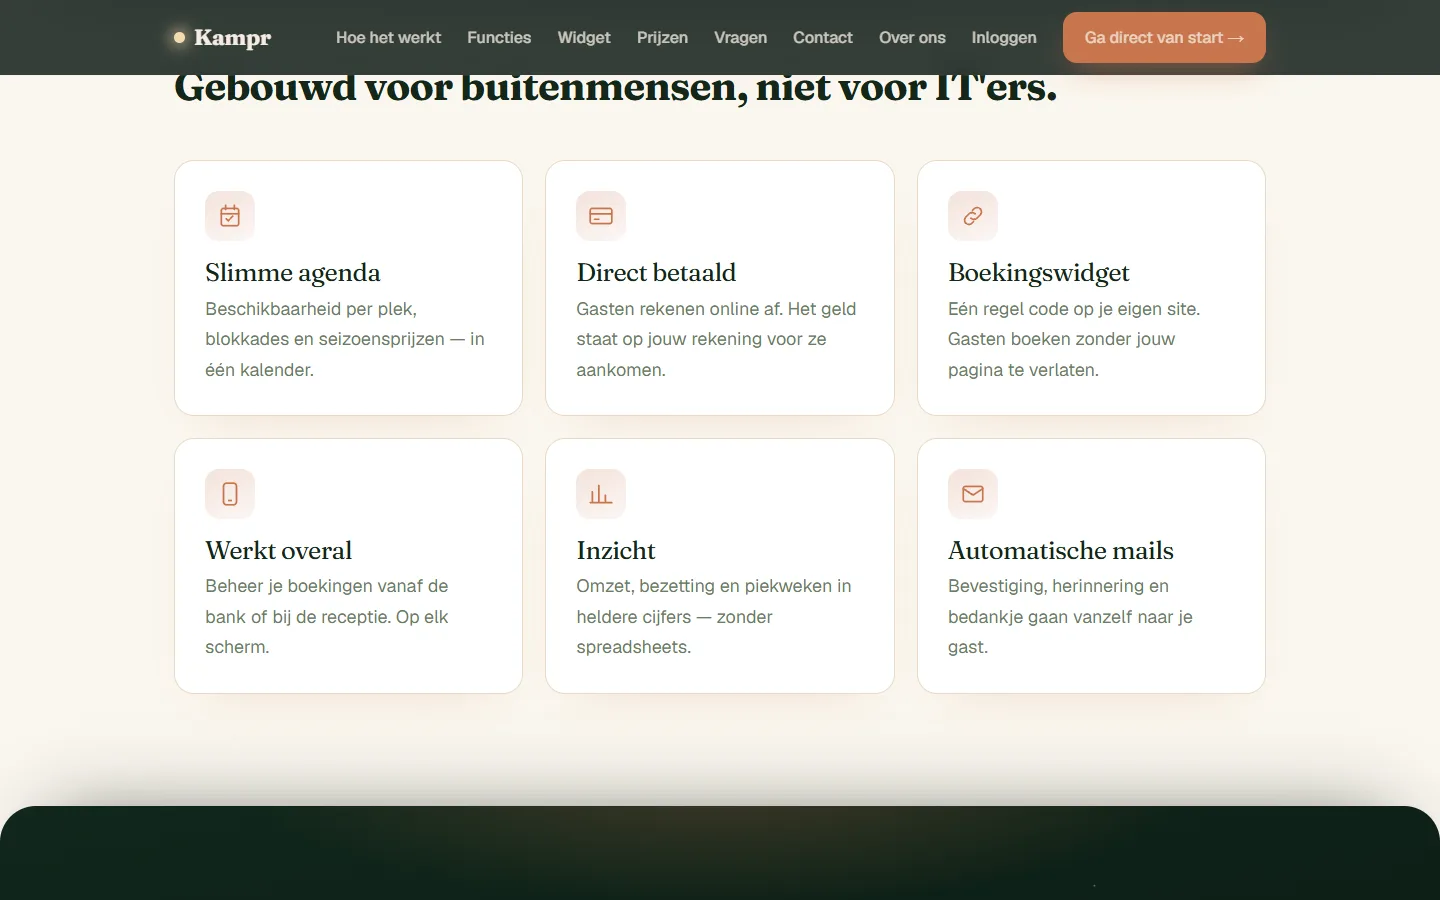
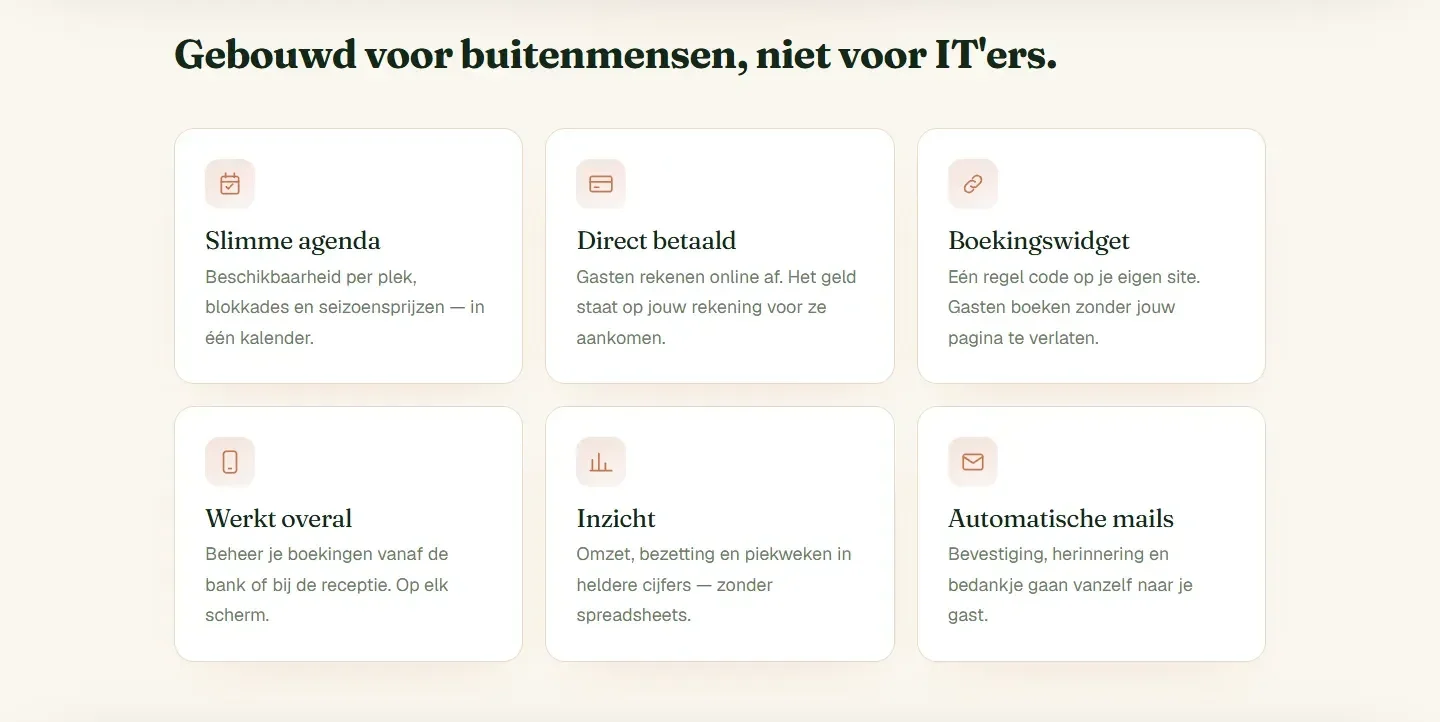
fix(portfolio): ensure Kampr widget and pricing screenshots fit fully without cropping
Re-capture the widget, pricing, features, steps and dashboard visuals as
full-section screenshots (they were 1440x900 viewport slices cut off at the
edges; the dashboard image was a duplicate of the hero). Gallery now uses
natural-ratio columns, correct width/height attributes, no hover zoom crop,
and a lightbox max-height that keeps the caption clear.

diff --git a/portfolio/kampr.html b/portfolio/kampr.html
@@ -258,7 +258,7 @@
     #lightbox.lb-visible { opacity: 1; }
 
     #lightbox-img {
-      max-width: 88vw; max-height: 84vh; object-fit: contain; display: block;
+      max-width: 88vw; max-height: 76vh; width: auto; height: auto; object-fit: contain; display: block;
       border-radius: 2px; box-shadow: 0 40px 100px rgba(0,0,0,0.8);
       transform: scale(0.96); transition: transform 0.3s cubic-bezier(0.22,1,0.36,1);
     }
@@ -356,6 +356,7 @@
     .story-text h3::before { content: attr(data-n); display: block; font-size: 0.62rem; font-family: var(--font-body); font-weight: 700; letter-spacing: 0.22em; color: var(--orange); margin-bottom: 12px; }
     .story-fig { position: relative; }
     .story-fig img { width: 100%; height: auto; display: block; border-radius: 3px; border: 1px solid var(--border); box-shadow: 0 1px 0 rgba(255,255,255,0.04) inset, 0 28px 60px -24px rgba(255,140,0,0.16), 0 14px 36px rgba(0,0,0,0.6); }
+    .story-fig.tall { max-width: 460px; width: 100%; margin-inline: auto; }
     .story-fig figcaption { margin-top: 12px; font-size: 0.72rem; line-height: 1.5; color: var(--text-muted); letter-spacing: 0.02em; }
 
     .stats { margin-top: 48px; display: grid; grid-template-columns: repeat(4, minmax(0, 1fr)); gap: 1px; background: var(--border); border: 1px solid var(--border); border-radius: 4px; overflow: hidden; list-style: none; }
@@ -366,17 +367,16 @@
     /* GALLERY */
     .gal-head { display: flex; justify-content: space-between; align-items: flex-end; gap: 24px; flex-wrap: wrap; margin-bottom: 36px; }
     .gal-head p { font-size: 0.9rem; color: var(--text-secondary); font-weight: 300; max-width: 46ch; line-height: 1.7; }
-    .gal { display: grid; grid-template-columns: repeat(2, minmax(0, 1fr)); gap: 8px; }
-    .gal-item { position: relative; display: block; width: 100%; padding: 0; border: 0; background: #111; cursor: pointer; overflow: hidden; font: inherit; color: inherit; border-radius: 3px; }
-    .gal-item:first-child { grid-column: 1 / -1; }
-    .gal-item img { width: 100%; height: auto; display: block; transition: transform 0.7s cubic-bezier(0.25,0.46,0.45,0.94), filter 0.4s ease; }
+    .gal { columns: 2; column-gap: 8px; }
+    .gal-item { position: relative; display: block; width: 100%; margin: 0 0 8px; padding: 0; border: 1px solid var(--border); background: #111; cursor: pointer; overflow: hidden; font: inherit; color: inherit; border-radius: 3px; break-inside: avoid; }
+    .gal-item img { width: 100%; height: auto; display: block; transition: filter 0.4s ease; }
     .gal-item::after { content: ''; position: absolute; left: 0; right: 0; bottom: 0; height: 3px; background: var(--orange); transform: scaleX(0); transform-origin: left center; transition: transform 0.4s cubic-bezier(0.22,1,0.36,1); }
     .gal-cap { position: absolute; left: 0; right: 0; bottom: 0; padding: 40px 16px 16px; text-align: left; font-family: var(--font-display); font-size: 1.15rem; letter-spacing: 0.04em; color: var(--text-primary); background: linear-gradient(to top, rgba(0,0,0,0.8) 0%, transparent 100%); opacity: 0; transform: translateY(6px); transition: opacity 0.3s ease, transform 0.3s cubic-bezier(0.22,1,0.36,1); }
-    .gal-item:hover img { transform: scale(1.04); filter: brightness(0.82); }
+    .gal-item:hover img { filter: brightness(0.82); }
     .gal-item:hover::after, .gal-item:focus-visible::after { transform: scaleX(1); }
     .gal-item:hover .gal-cap, .gal-item:focus-visible .gal-cap { opacity: 1; transform: translateY(0); }
     .gal-item:focus-visible { outline: 2px solid var(--orange); outline-offset: -2px; }
-    .gal-item:active img { transform: scale(1.02); }
+    .gal-item:active img { filter: brightness(0.7); }
 
     @media (max-width: 1100px) {
       .facts dl { grid-template-columns: 1fr 1fr 1fr; }
@@ -403,7 +403,7 @@
     @media (max-width: 480px) {
       .facts dl { grid-template-columns: 1fr; }
       .pains { grid-template-columns: 1fr; }
-      .gal { grid-template-columns: 1fr; gap: 6px; }
+      .gal { columns: 1; }
       .stats li { padding: 22px 16px; }
       .hero-actions .btn-orange, .hero-actions .btn-ghost { text-align: center; flex: 1 1 100%; }
     }
@@ -560,8 +560,8 @@
             <p>Het hart van het platform is de widget. De eigenaar plaatst één regel code in WordPress, Elementor, Wix, Squarespace of eigen HTML. Gasten zien live beschikbaarheid en de prijs per nacht en boeken zonder de website van de camping te verlaten.</p>
             <p>De widget bestaat in drie niveaus, Basis (compact), Plus (breed) en Pro (zoek &amp; boek), zodat een kleine minicamping en een groot park allebei een passende ervaring krijgen.</p>
           </div>
-          <figure class="story-fig">
-            <img src="/fotos/kampr/kampr-boekingswidget-basis-800.webp" srcset="/fotos/kampr/kampr-boekingswidget-basis-800.webp 800w, /fotos/kampr/kampr-boekingswidget-basis.webp 1440w" sizes="(max-width:900px) 100vw, 640px" width="800" height="500" alt="De compacte Kampr-boekingswidget met accommodatie, aankomst- en vertrekdatum en totaalprijs" loading="lazy" decoding="async">
+          <figure class="story-fig tall">
+            <img src="/fotos/kampr/kampr-boekingswidget-basis-800.webp" srcset="/fotos/kampr/kampr-boekingswidget-basis-800.webp 800w, /fotos/kampr/kampr-boekingswidget-basis.webp 1092w" sizes="(max-width:900px) 100vw, 460px" width="800" height="1221" alt="De compacte Kampr-boekingswidget met accommodatie, aankomst- en vertrekdatum en totaalprijs" loading="lazy" decoding="async">
             <figcaption>De compacte widget (Basis) met live prijs en directe reservering.</figcaption>
           </figure>
         </div>
@@ -573,7 +573,7 @@
             <p>Ook het prijsmodel is bewust simpel: een vast maandbedrag vanaf €24,99 (excl. btw), 14 dagen gratis proberen en maandelijks opzegbaar. Geen setup-kosten.</p>
           </div>
           <figure class="story-fig">
-            <img src="/fotos/kampr/kampr-prijzen-800.webp" srcset="/fotos/kampr/kampr-prijzen-800.webp 800w, /fotos/kampr/kampr-prijzen.webp 1440w" sizes="(max-width:900px) 100vw, 640px" width="800" height="500" alt="Prijsoverzicht van Kampr.nl met de abonnementen Basis, Plus en Pro" loading="lazy" decoding="async">
+            <img src="/fotos/kampr/kampr-prijzen-800.webp" srcset="/fotos/kampr/kampr-prijzen-800.webp 800w, /fotos/kampr/kampr-prijzen.webp 1440w" sizes="(max-width:900px) 100vw, 640px" width="800" height="712" alt="Prijsoverzicht van Kampr.nl met de abonnementen Basis, Plus en Pro" loading="lazy" decoding="async">
             <figcaption>Drie abonnementen met een vast maandbedrag, zonder setup-kosten.</figcaption>
           </figure>
         </div>
@@ -618,23 +618,23 @@
           <span class="gal-cap" aria-hidden="true">Eigenaren-dashboard</span>
         </button>
         <button type="button" class="gal-item" data-full="/fotos/kampr/kampr-boekingswidget-basis.webp" data-title="Boekingswidget Basis" data-alt="De compacte Kampr-boekingswidget met accommodatie, data en totaalprijs" aria-label="Vergroot afbeelding 3 van 7: Boekingswidget Basis" aria-haspopup="dialog">
-          <img src="/fotos/kampr/kampr-boekingswidget-basis-800.webp" width="800" height="500" alt="De compacte Kampr-boekingswidget met accommodatie, data en totaalprijs" loading="lazy" decoding="async">
+          <img src="/fotos/kampr/kampr-boekingswidget-basis-800.webp" width="800" height="1221" alt="De compacte Kampr-boekingswidget met accommodatie, data en totaalprijs" loading="lazy" decoding="async">
           <span class="gal-cap" aria-hidden="true">Boekingswidget Basis</span>
         </button>
         <button type="button" class="gal-item" data-full="/fotos/kampr/kampr-boekingswidget-pro.webp" data-title="Boekingswidget Pro" data-alt="De Pro-variant van de Kampr-boekingswidget om te zoeken en te boeken" aria-label="Vergroot afbeelding 4 van 7: Boekingswidget Pro" aria-haspopup="dialog">
-          <img src="/fotos/kampr/kampr-boekingswidget-pro-800.webp" width="800" height="500" alt="De Pro-variant van de Kampr-boekingswidget om te zoeken en te boeken" loading="lazy" decoding="async">
+          <img src="/fotos/kampr/kampr-boekingswidget-pro-800.webp" width="800" height="923" alt="De Pro-variant van de Kampr-boekingswidget om te zoeken en te boeken" loading="lazy" decoding="async">
           <span class="gal-cap" aria-hidden="true">Boekingswidget Pro</span>
         </button>
         <button type="button" class="gal-item" data-full="/fotos/kampr/kampr-functies.webp" data-title="Functies" data-alt="Functieoverzicht van Kampr.nl: slimme agenda, direct betaald, boekingswidget, inzicht en automatische mails" aria-label="Vergroot afbeelding 5 van 7: Functies" aria-haspopup="dialog">
-          <img src="/fotos/kampr/kampr-functies-800.webp" width="800" height="500" alt="Functieoverzicht van Kampr.nl: slimme agenda, direct betaald, boekingswidget, inzicht en automatische mails" loading="lazy" decoding="async">
+          <img src="/fotos/kampr/kampr-functies-800.webp" width="800" height="401" alt="Functieoverzicht van Kampr.nl: slimme agenda, direct betaald, boekingswidget, inzicht en automatische mails" loading="lazy" decoding="async">
           <span class="gal-cap" aria-hidden="true">Functies</span>
         </button>
         <button type="button" class="gal-item" data-full="/fotos/kampr/kampr-in-vier-stappen.webp" data-title="In vier stappen live" data-alt="Kampr.nl legt uit hoe een camping in vier stappen live gaat, van abonnement tot widget" aria-label="Vergroot afbeelding 6 van 7: In vier stappen live" aria-haspopup="dialog">
-          <img src="/fotos/kampr/kampr-in-vier-stappen-800.webp" width="800" height="500" alt="Kampr.nl legt uit hoe een camping in vier stappen live gaat, van abonnement tot widget" loading="lazy" decoding="async">
+          <img src="/fotos/kampr/kampr-in-vier-stappen-800.webp" width="800" height="277" alt="Kampr.nl legt uit hoe een camping in vier stappen live gaat, van abonnement tot widget" loading="lazy" decoding="async">
           <span class="gal-cap" aria-hidden="true">In vier stappen live</span>
         </button>
         <button type="button" class="gal-item" data-full="/fotos/kampr/kampr-prijzen.webp" data-title="Abonnementen en prijzen" data-alt="Prijsoverzicht van Kampr.nl met de abonnementen Basis, Plus en Pro" aria-label="Vergroot afbeelding 7 van 7: Abonnementen en prijzen" aria-haspopup="dialog">
-          <img src="/fotos/kampr/kampr-prijzen-800.webp" width="800" height="500" alt="Prijsoverzicht van Kampr.nl met de abonnementen Basis, Plus en Pro" loading="lazy" decoding="async">
+          <img src="/fotos/kampr/kampr-prijzen-800.webp" width="800" height="712" alt="Prijsoverzicht van Kampr.nl met de abonnementen Basis, Plus en Pro" loading="lazy" decoding="async">
           <span class="gal-cap" aria-hidden="true">Abonnementen en prijzen</span>
         </button>
       </div>
